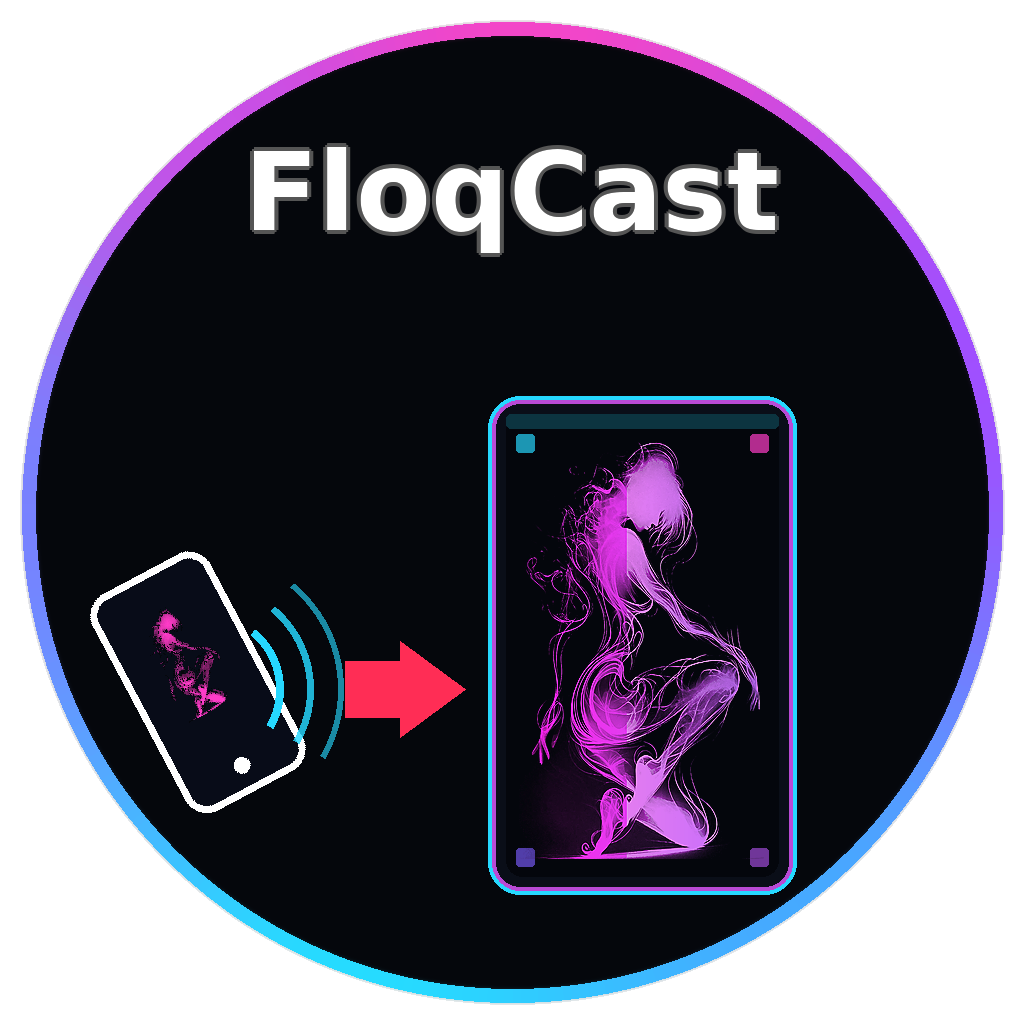
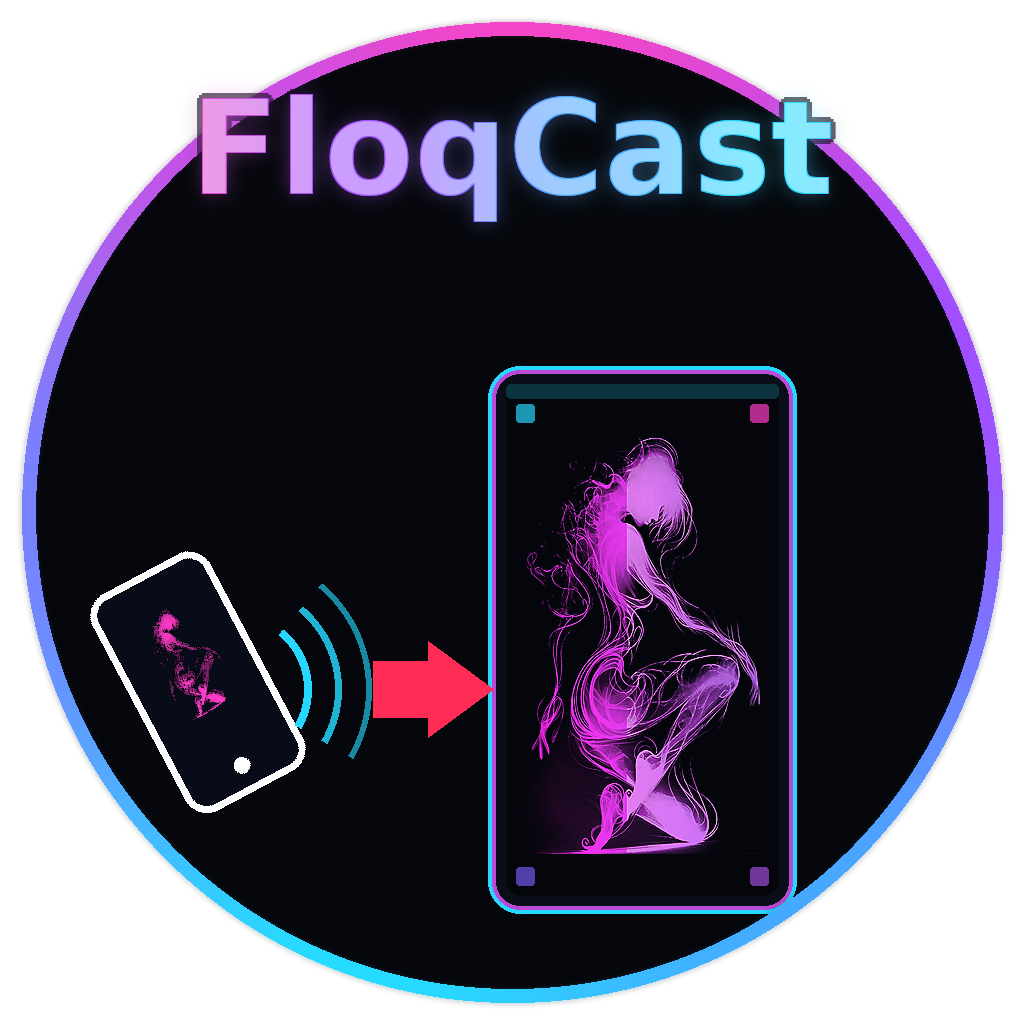
fix: FloqCast V4 taller LED, chrome wordmark, signal right
Grow LED height 10%, nudge cast arcs/arrow right, and enlarge FloqCast
20% with nightlife pink–cyan chrome that may extend past the ring.

Changed region(s): [[0.4688, 0.3438, 0.7812, 0.9062], [0.1875, 0.0625, 0.8125, 0.25], [0.25, 0.5625, 0.5, 0.75]]

diff --git a/icon-review-square-green-halo.html b/icon-review-square-green-halo.html
@@ -105,14 +105,14 @@
       <h2>V4 — silhouette photo + cast chrome</h2>
       <p>
         Your silhouette cut out and neon-tinted into the LED + phone screens.
-        Transparent outside the nightlife ring. LED lower again; FloqCast +10% (now ~109px);
-        signal + arrow at mid-phone origin; cast arrow phone→LED. Hard refresh if cached.
+        Transparent outside the nightlife ring. LED height +10%; FloqCast +20% (~131px) in nightlife chrome
+        (may extend past the ring); signal + arrow nudged right; cast arrow phone→LED. Hard refresh if cached.
       </p>
       <div class="row">
         <figure class="hero">
           <figcaption>V4 final draft <span class="tag next">silhouette source</span></figcaption>
           <div class="checker">
-            <img src="./images/review/actual-icons/floqcast-v4-circle-silhouette.png?v=4g" alt="FloqCast V4 silhouette circle"/>
+            <img src="./images/review/actual-icons/floqcast-v4-circle-silhouette.png?v=4h" alt="FloqCast V4 silhouette circle"/>
           </div>
         </figure>
         <figure>
